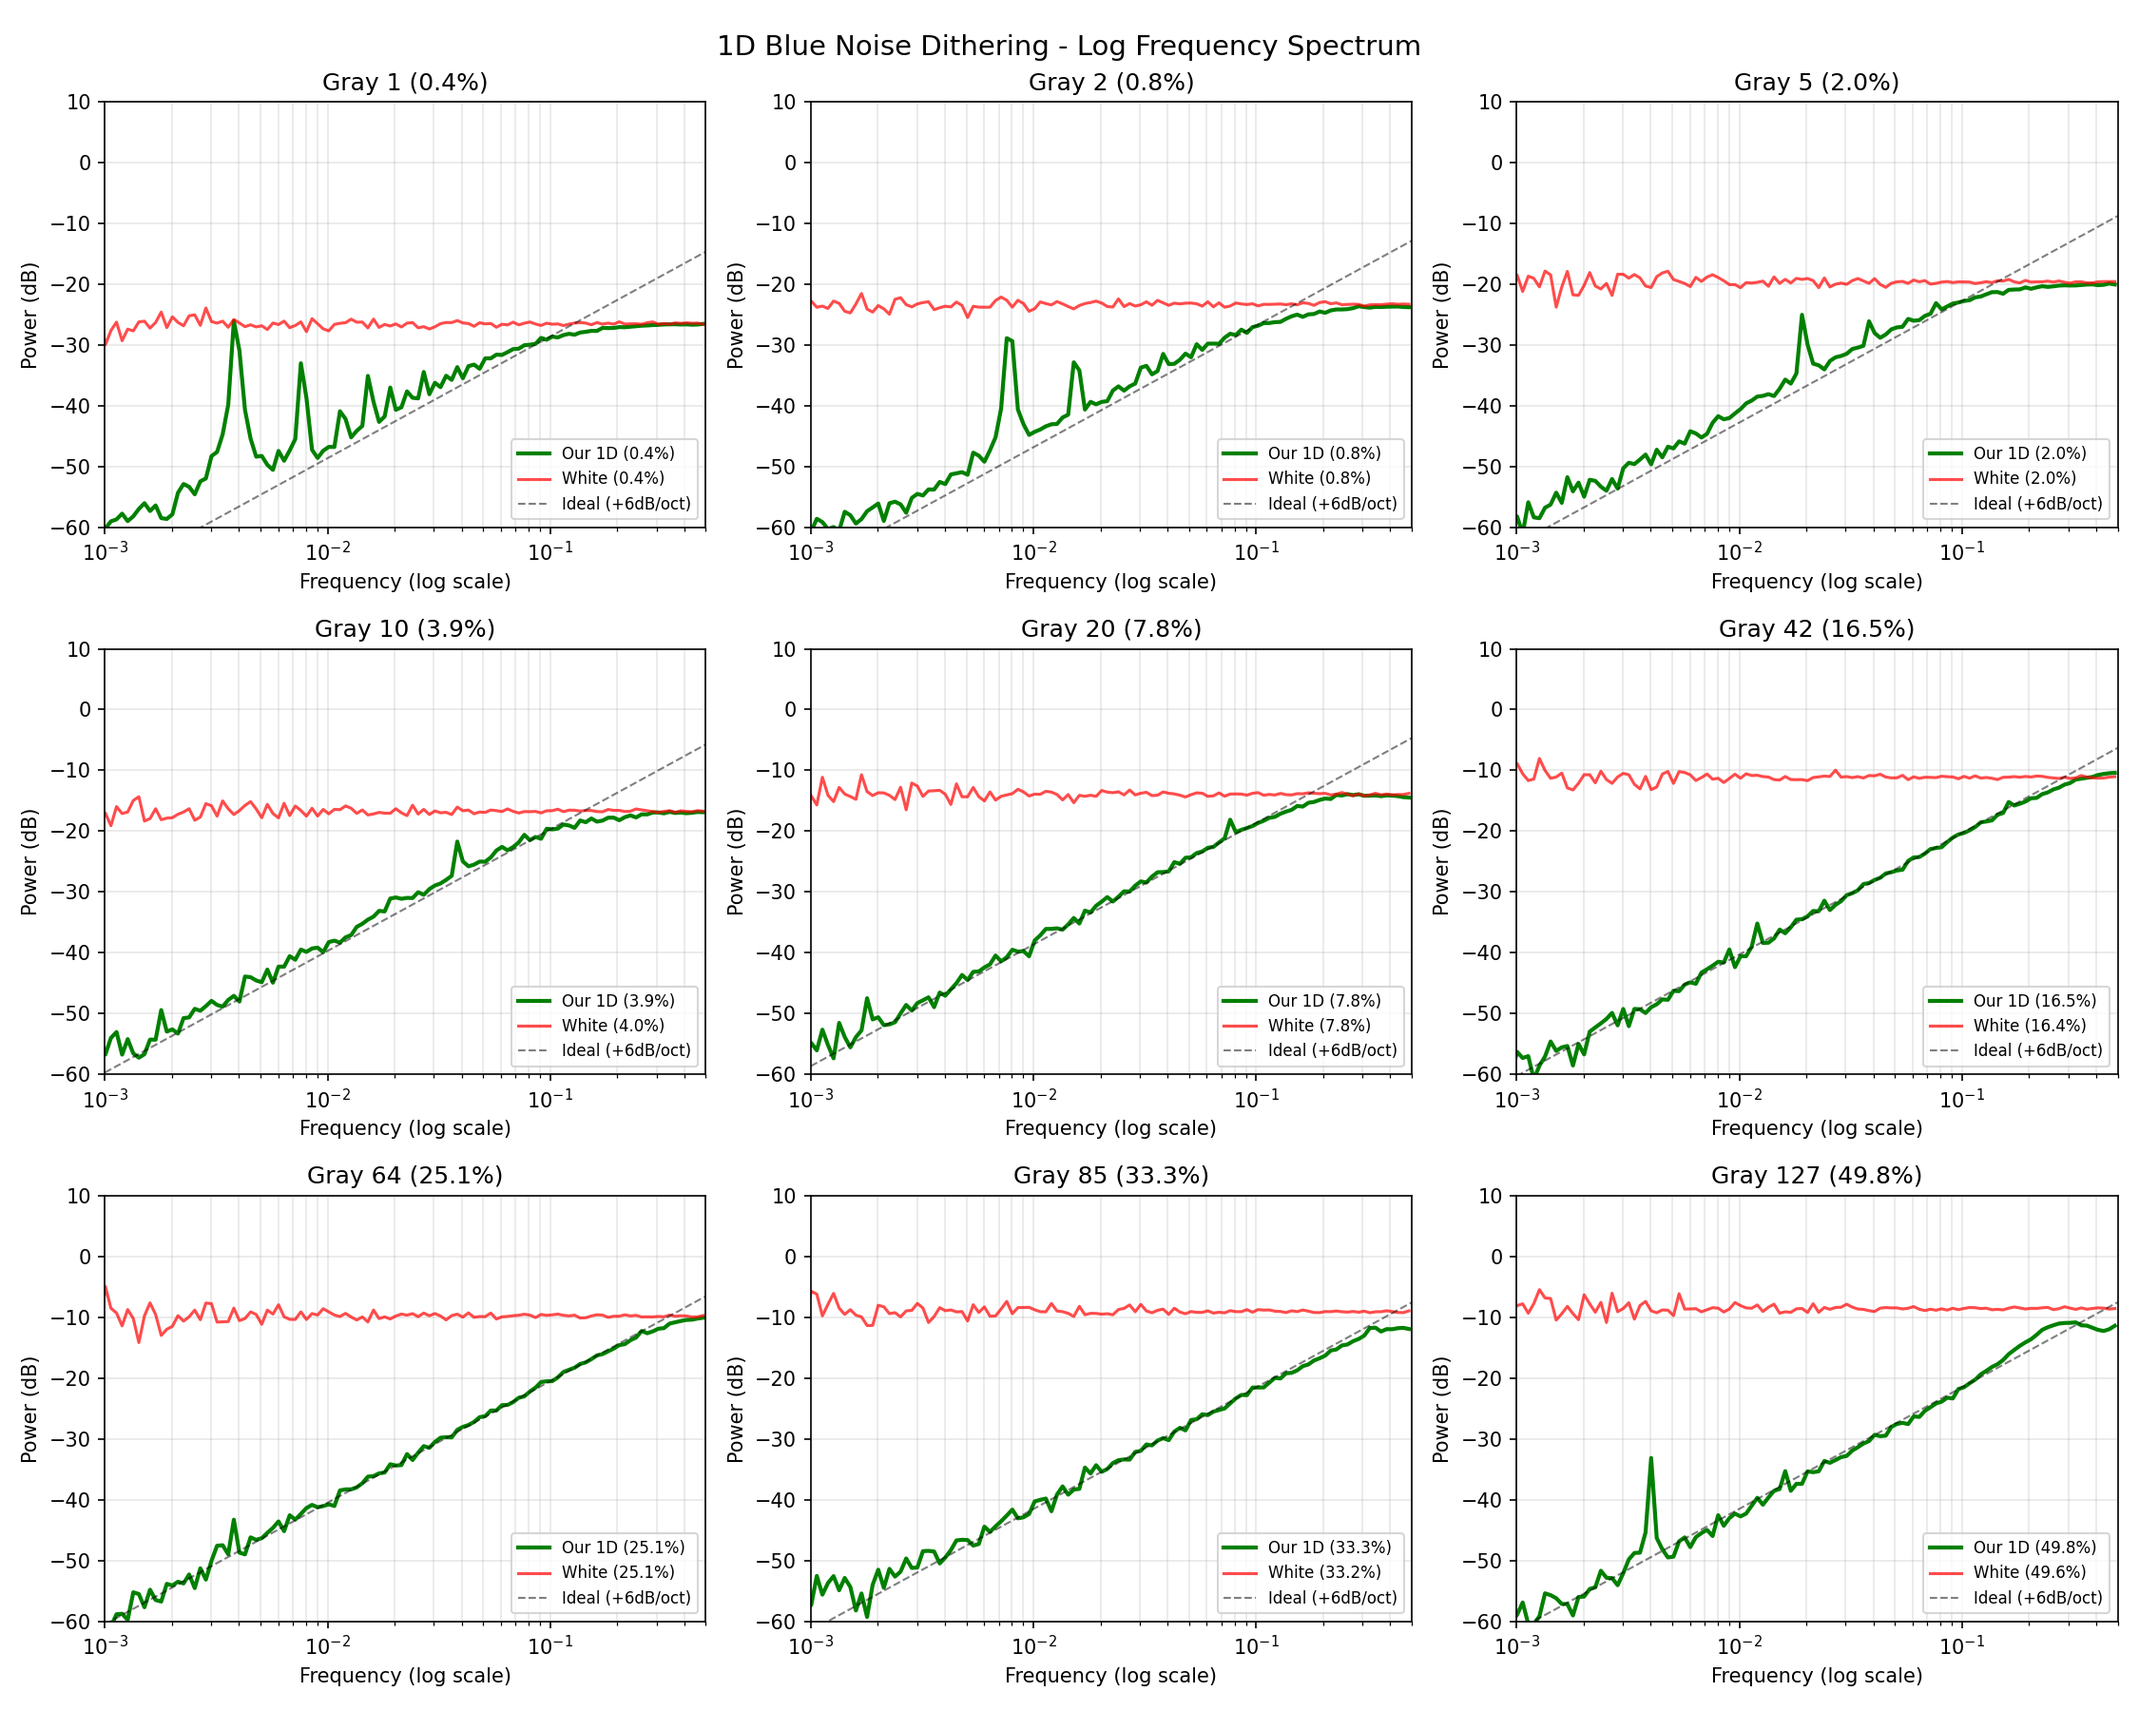
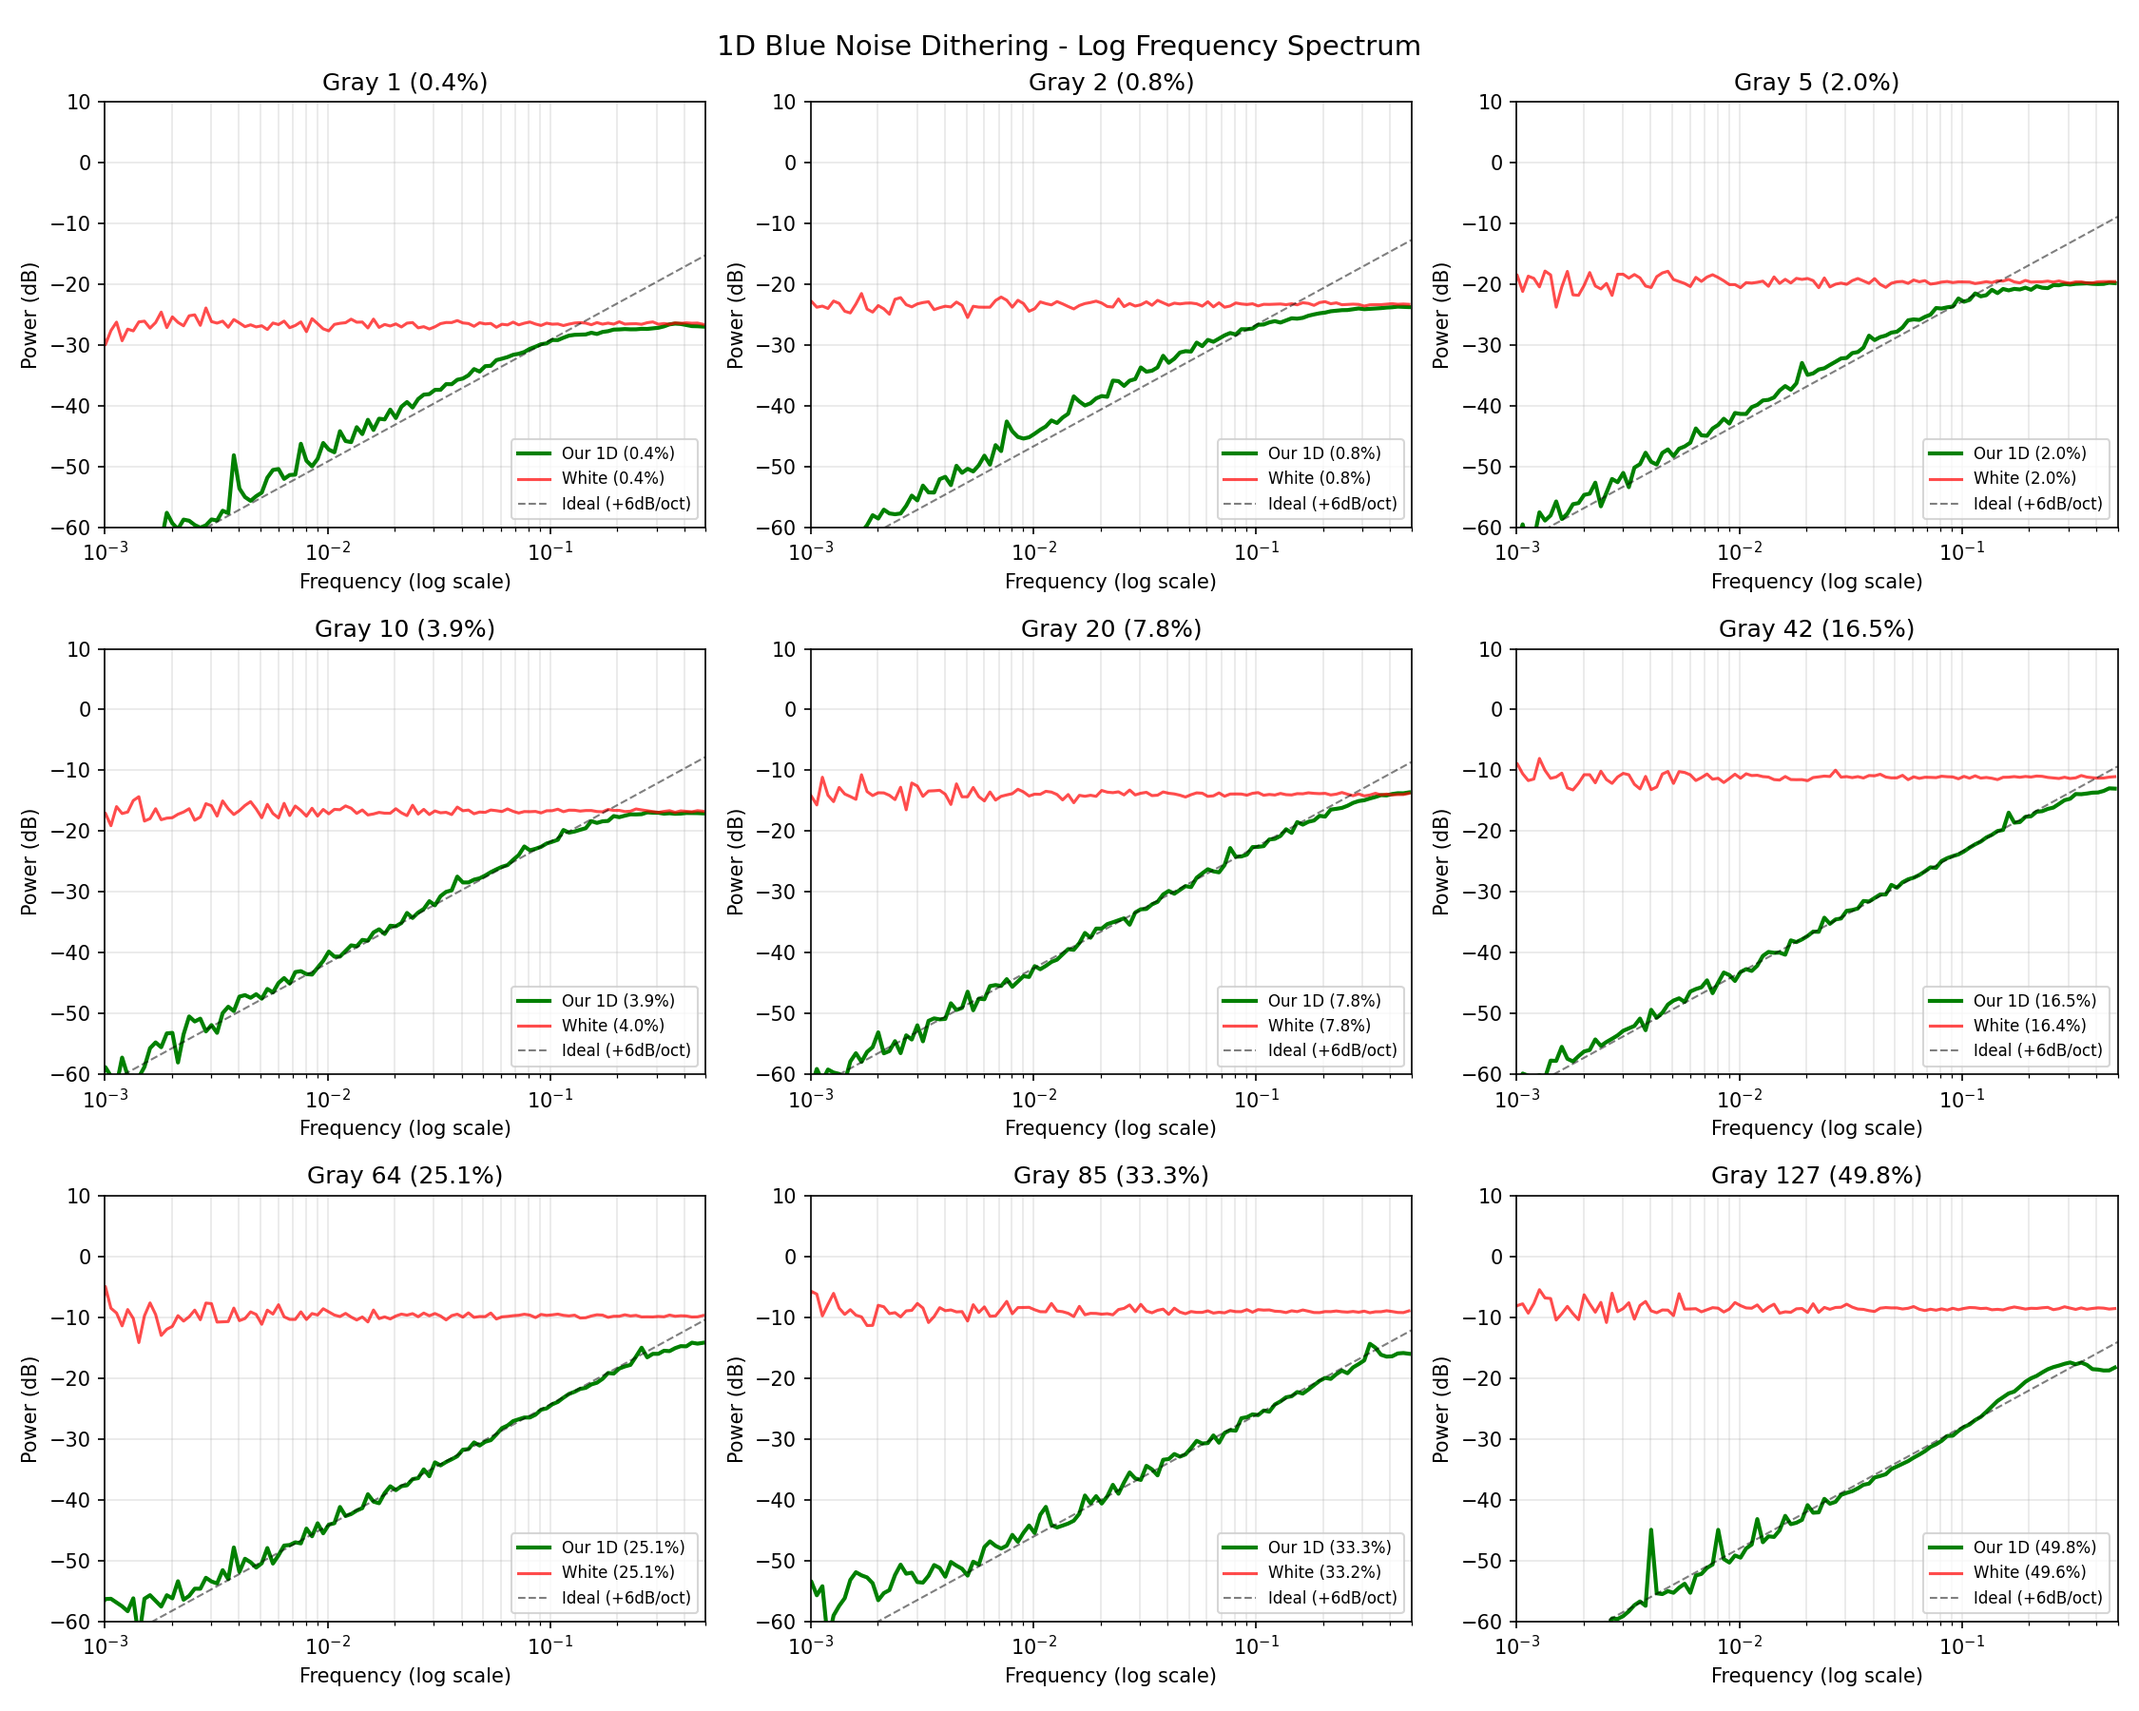
Update analysis

diff --git a/tools/blue_dither.h b/tools/blue_dither.h
@@ -98,9 +98,10 @@ extern "C" {
 /* ============================================================================
  * 1D Temporal Dithering (LED PWM, audio DAC, etc.)
  * ============================================================================
- * Minimal state for streaming single bits. Uses FS/JJN mixing in 1D:
- * - FS-like: 100% error to t+1
- * - JJN-like: 58% to t+1, 42% to t+2 (approximates 7:5 ratio)
+ * Minimal state for streaming single bits. Mixes two 1D kernels:
+ * - K1: [48] - 100% error to t+1 (tight)
+ * - K2: [38,10] - 79% to t+1, 21% to t+2 (spread) = 2×[19,5] (both prime)
+ * The 38:10 ratio (~4:1) was found optimal through spectral analysis.
  */
 
 typedef struct {
@@ -216,12 +217,12 @@ int blue_dither_1d_next(BlueDither1D *bd, uint8_t brightness) {
     bd->err1 = 0;
 
     if (hash & 1) {
-        /* FS-like: 100% to next (scaled as 48/48) */
+        /* FS-like: 100% to next (48/48) */
         bd->err0 += quant_err;
     } else {
-        /* JJN-like: split 7:5 to next two positions (7/12 ≈ 58%, 5/12 ≈ 42%) */
-        bd->err0 += (quant_err * 7) / 12;
-        bd->err1 += (quant_err * 5) / 12;
+        /* Optimal 1D kernel: 38:10 ratio = 2×[19,5] (both prime) */
+        bd->err0 += (quant_err * 38) / 48;
+        bd->err1 += (quant_err * 10) / 48;
     }
 
     return output;

diff --git a/tools/analyze_1d_dither.py b/tools/analyze_1d_dither.py
@@ -34,7 +34,7 @@ def lowbias32(x):
 def blue_dither_1d(brightness, count, seed=12345):
     """
     1D blue noise dithering - replicates C implementation.
-    Uses FS/JJN-like kernel mixing in 1D.
+    Mixes [48] with [38,10] kernels (ratio ~4:1, optimal for 1D).
     """
     err0, err1 = 0, 0
     output = np.zeros(count, dtype=np.uint8)
@@ -59,9 +59,9 @@ def blue_dither_1d(brightness, count, seed=12345):
             # FS-like: 100% to next
             err0 += quant_err
         else:
-            # JJN-like: 7:5 split to next two
-            err0 += (quant_err * 7) // 12
-            err1 += (quant_err * 5) // 12
+            # Optimal 1D kernel: 38:10 ratio = 2×[19,5] (both prime)
+            err0 += (quant_err * 38) // 48
+            err1 += (quant_err * 10) // 48
 
     return output
 
